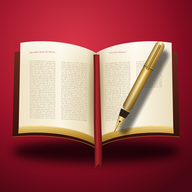
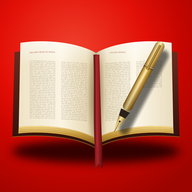
Publish 1.2.17 (2026-10-11 19:24)

diff --git a/index.html b/index.html
@@ -12,15 +12,15 @@
 <meta property="og:title" content="Never Get Bored — Nii Okai's Journal Through Scripture">
 <meta property="og:description" content="A verse-by-verse journal through Scripture by Nii Okai. Over 4,000 personal notes across all 66 books, with the King James text, reading plans and audio.">
 <meta property="og:url" content="https://bible.getwordwisdom.com/">
-<meta property="og:image" content="https://bible.getwordwisdom.com/icon-1024.png?v=12">
+<meta property="og:image" content="https://bible.getwordwisdom.com/icon-1024.png?v=13">
 <meta name="twitter:card" content="summary_large_image">
 <meta name="twitter:title" content="Never Get Bored — Nii Okai's Journal Through Scripture">
 <meta name="twitter:description" content="A verse-by-verse journal through Scripture by Nii Okai. Over 4,000 personal notes across all 66 books.">
-<meta name="twitter:image" content="https://bible.getwordwisdom.com/icon-1024.png?v=12">
+<meta name="twitter:image" content="https://bible.getwordwisdom.com/icon-1024.png?v=13">
 <meta name="theme-color" content="#000000">
-<link rel="apple-touch-icon" href="apple-touch-icon.png?v=12">
-<link rel="icon" type="image/png" sizes="32x32" href="favicon-32.png?v=12">
-<link rel="icon" type="image/png" sizes="192x192" href="icon-192.png?v=12">
+<link rel="apple-touch-icon" href="apple-touch-icon.png?v=13">
+<link rel="icon" type="image/png" sizes="32x32" href="favicon-32.png?v=13">
+<link rel="icon" type="image/png" sizes="192x192" href="icon-192.png?v=13">
 <meta name="apple-mobile-web-app-capable" content="yes">
 <meta name="apple-mobile-web-app-status-bar-style" content="default">
 <meta name="apple-mobile-web-app-title" content="Bible Journal N.O">
@@ -982,7 +982,7 @@ body[data-view]:not([data-view="read"]):not([data-view="search"]) .rc{display:no
 <body>
 <!-- Opening screen: the red logo on black while the app gets ready (11 Oct 2026) -->
 <div id="boot" aria-hidden="true" style="position:fixed;inset:0;z-index:99999;background:#000000;display:flex;flex-direction:column;align-items:center;justify-content:center;gap:22px;transition:opacity .35s ease">
-  <img src="icon-512.png?v=12" alt="" width="220" height="220" style="width:min(46vw,240px);height:auto;border-radius:22%;box-shadow:0 0 70px rgba(225,6,0,.38)">
+  <img src="icon-512.png?v=13" alt="" width="220" height="220" style="width:min(46vw,240px);height:auto;border-radius:22%;box-shadow:0 0 70px rgba(225,6,0,.38)">
   <div style="font-family:Georgia,'Times New Roman',serif;color:#fff;text-align:center;line-height:1.35">
     <div style="font-size:clamp(20px,5vw,28px);letter-spacing:.3px">Nii Okai&#8217;s Bible Journal</div>
     <div style="font-size:clamp(12px,3.2vw,14px);opacity:.85;letter-spacing:2px;text-transform:uppercase;margin-top:6px">Never Get Bored</div>
@@ -1146,7 +1146,7 @@ body[data-view]:not([data-view="read"]):not([data-view="search"]) .rc{display:no
 /* ---------- State ---------- */
 const LS_KEY='henry_bible_commentary_v1';
 const LS_PREFS='henry_bible_prefs_v1';
-const BUILD={v:'1.2.16', date:'11 Oct 2026'};
+const BUILD={v:'1.2.17', date:'11 Oct 2026'};
 var _themeMode='auto';   // 'auto' follows the device · 'light' · 'dark'
 const BLOG_URL='https://www.getwordwisdom.com/';
 const OWNER_KEY='niiokai';

diff --git a/sw.js b/sw.js
@@ -1,6 +1,6 @@
 /* Never Get Bored — service worker.
    Bump CACHE whenever the app shell changes so installed copies refresh. */
-const CACHE = 'ngb-v109';
+const CACHE = 'ngb-v110';
 const PRECACHE = [
   './', './index.html', './manifest.webmanifest', './icon-192.png', './icon-512.png',
   './data/books.js', './data/versions.js', './data/KJV.js', './data/chronological.js', './data/headings.js', './data/audio_kjv.js',
